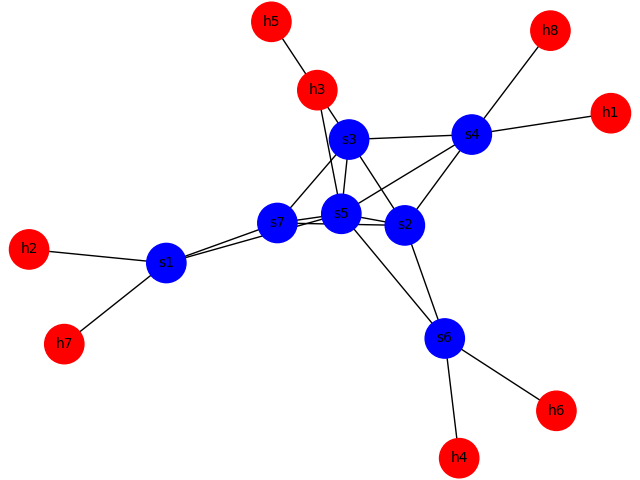
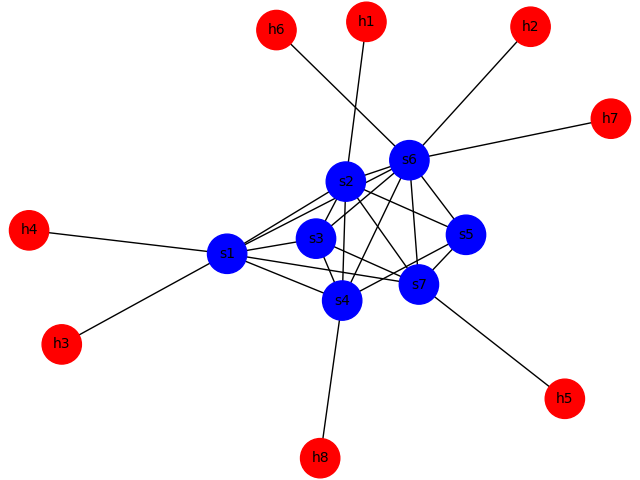
Added link weight and graphs

diff --git a/topology_generator.py b/topology_generator.py
@@ -11,6 +11,9 @@ plt.switch_backend('Agg')
 
 #ssh -X -p 2222 vagrant@localhost
 
+# Creazione del grafo
+G = nx.Graph()
+
 class MyTopo (Topo):    
     def build(self):
         
@@ -22,7 +25,7 @@ class MyTopo (Topo):
         switch_MN=[] #array of switches
         link_NODES = []
         # Creazione del grafo
-        G = nx.Graph()
+        # G = nx.Graph()
 
         # Aggiunta dei nodi host
         for i in range (n_host):
@@ -95,12 +98,12 @@ class MyTopo (Topo):
             
 
         # Disegno del grafo
-        pos = nx.spring_layout(G)  # Layout per una visualizzazione più chiara
+        pos = nx.spring_layout(G, seed=42)  # Layout per una visualizzazione più chiara con seme fisso
         colors = ["red" if G.nodes[node]['type'] == "host" else "blue" for node in G.nodes]
         nx.draw(G, pos, with_labels=True, node_color=colors, node_size=800, font_size=10)
-        # plt.show()
-        plt.savefig("./img/graph.png")
-        print("Graph saved as graph.png")
+        plt.savefig("img/graph.png")
+        print("Graph saved as graph.png\n")
+        plt.clf()  # Pulisce la figura corrente
         
 
     def get_shortest_path(net, src_host, dst_host):
@@ -126,17 +129,39 @@ class MyTopo (Topo):
                     neighbor_switch = link.intf1.node.name
                 else:
                     continue
-                switch_connections[switch.name][neighbor_switch] = 1  # Unit weight for simplicity
+                # Assign a random weight to each link
+                weight = random.randint(1, 10)
+                switch_connections[switch.name][neighbor_switch] = weight
+                G.add_edge(switch.name, neighbor_switch, weight=weight)  # Aggiorna il grafo G con il peso
+        
+       # Stampa i collegamenti e i loro pesi
+        # for switch, connections in switch_connections.items():
+        #     print(f"Switch {switch} connections:")
+        #     for neighbor, weight in connections:
+        #         print(f"  -> {neighbor} with weight {weight}")
 
         # Get source and destination switch names
         src_switch = src_host.defaultIntf().node.name  # Access switch through default interface
         dst_switch = dst_host.defaultIntf().node.name  # Access switch through default interface
 
-        # Create a networkx graph
-        graph = nx.Graph(switch_connections)
-
         # Calculate shortest path using Dijkstra's algorithm
-        shortest_path = nx.shortest_path(graph, source=src_switch, target=dst_switch)
+        shortest_path = nx.shortest_path(G, source=src_switch, target=dst_switch)
+        print(f"\nShortest path between h1 and h2 without weights: {shortest_path}")
+        # Calculate shortest path using Dijkstra's algorithm and weights
+        shortest_path = nx.shortest_path(G, source=src_switch, target=dst_switch, weight='weight')
+
+        # Draw the graph with weights
+
+        # Usa lo stesso seme per una disposizione coerente
+        # Aumenta il valore di k per più spazio
+        pos = nx.spring_layout(G, k=3)   
+        edge_labels = nx.get_edge_attributes(G, 'weight')
+        node_colors = ["red" if G.nodes[node].get('type') == "host" else "blue" for node in G.nodes]
+        nx.draw(G, pos, with_labels=True, node_color=node_colors, node_size=1000, font_size=11)
+        nx.draw_networkx_edge_labels(G, pos, edge_labels=edge_labels)
+        plt.savefig("img/graph_with_weights.png")
+        print("\nGraph with weights saved as graph_with_weights.png")
+        plt.close()  # Chiude la figura corrente
 
         return shortest_path
 
